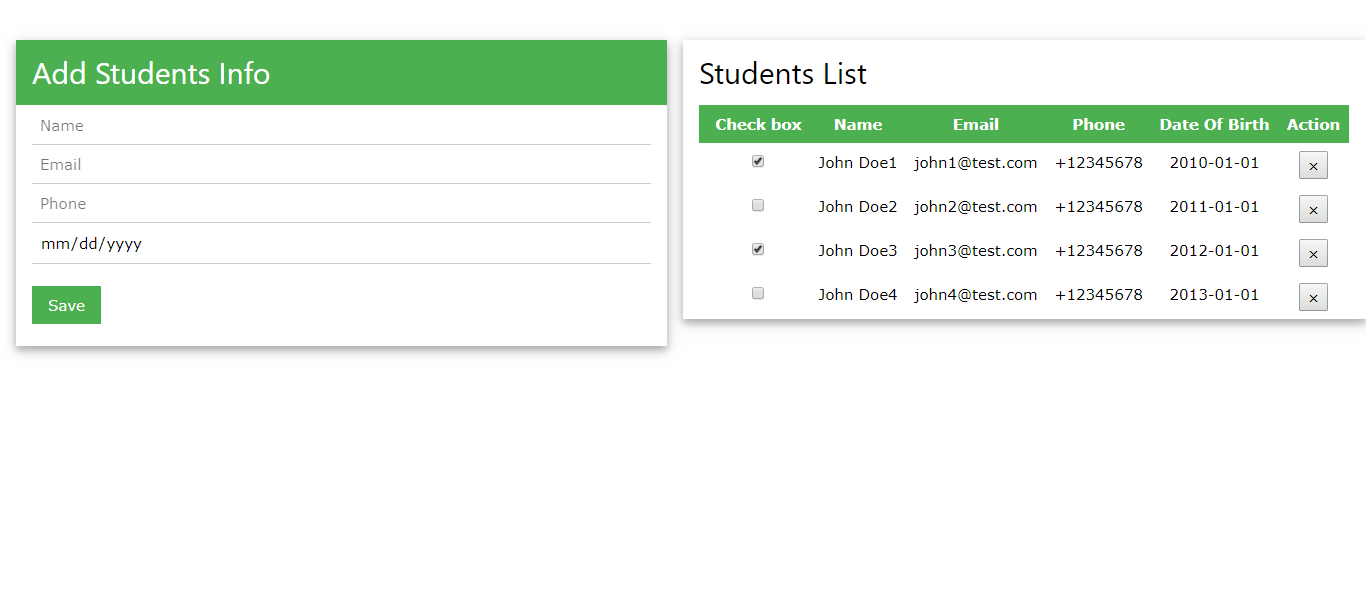
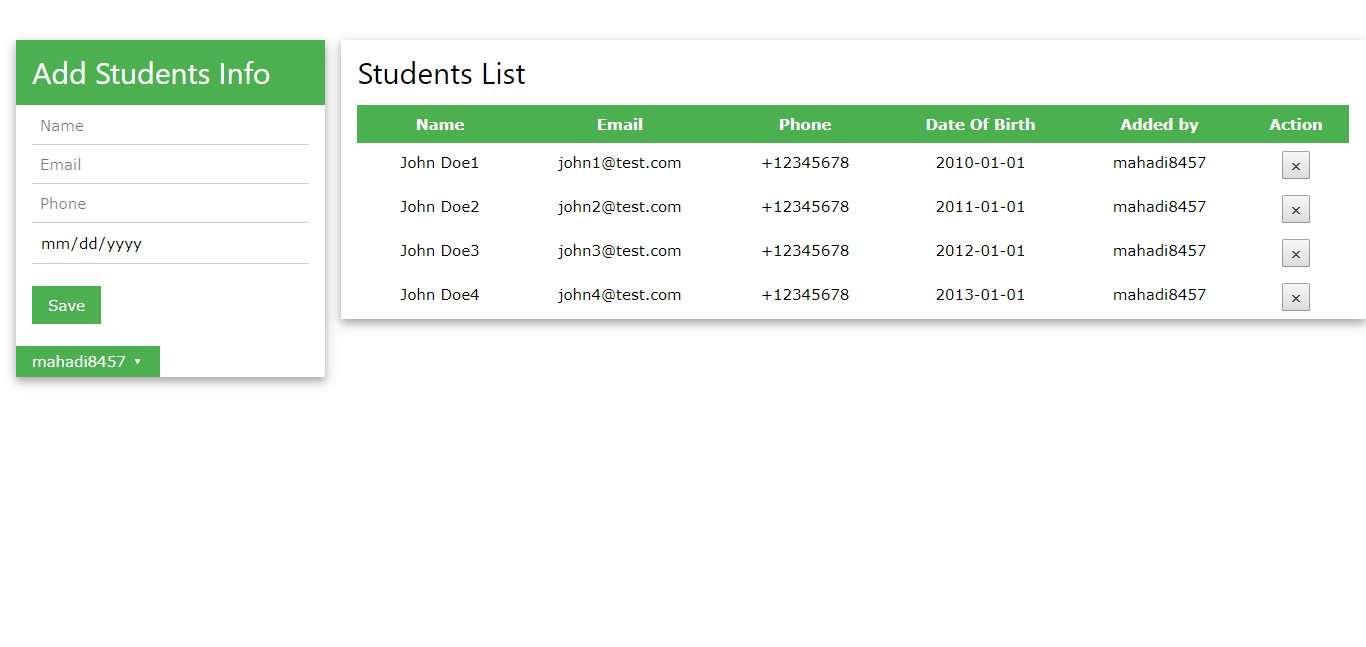
User Accounts implemented and screenshot updated

Changed region(s): [[0.0, 0.0602, 1.0, 0.602], [0.3997, 0.301, 0.5227, 0.3311]]

diff --git a/imports/api/tasks.js b/imports/api/tasks.js
@@ -1,4 +1,43 @@
+import { Meteor } from 'meteor/meteor';
 import { Mongo } from 'meteor/mongo';
-
+import { check } from 'meteor/check';
 // export const Tasks = new Mongo.Collection('tasks');
 export const Lists = new Mongo.Collection('lists');
+
+
+
+Meteor.methods({
+  'lists.insert'(name, email, phone, dob) {
+    check(name, String);
+ 
+    // Make sure the user is logged in before inserting a task
+    if (! Meteor.userId()) {
+      throw new Meteor.Error('not-authorized');
+    }
+ 
+    Lists.insert({
+      name: name,
+      email: email,
+      phone: phone,
+      dob: dob,
+      createdAt: new Date(), // current time
+      owner: Meteor.userId(),
+      username: Meteor.user().username,
+    });
+  },
+  
+  'lists.remove'(lists) {
+    check(lists._id, String);
+ 
+    Lists.remove(lists._id);
+  },
+
+  'lists.setChecked'(taskId, setChecked) {
+    check(taskId, String);
+    check(setChecked, Boolean);
+ 
+    Lists.update(taskId, { $set: { checked: setChecked } });
+  },
+
+});
+

diff --git a/imports/ui/body.js b/imports/ui/body.js
@@ -24,13 +24,18 @@ Template.body.events({
     var dob = event.target.dob.value;
 
     // Insert a task into the collection
-    Lists.insert({
-      name: name,
-      email: email,
-      phone: phone,
-      dob: dob,
-      createdAt: new Date(), // current time
-    });
+    // Lists.insert({
+    //   name: name,
+    //   email: email,
+    //   phone: phone,
+    //   dob: dob,
+    //   createdAt: new Date(), // current time
+    //   owner: Meteor.userId(),
+    //   username: Meteor.user().username,
+    // });
+
+    Meteor.call('lists.insert', name, email, phone, dob);
+
 
     // Clear form
     event.target.name.value = '';
@@ -40,4 +45,18 @@ Template.body.events({
 
     return false;
   },
+});
+
+
+Template.Std.events({
+  'click .delete'() {
+    // Lists.remove(this._id);
+    // check user
+    if(Lists.owner !== Meteor.userId()){
+      throw new Meteor.Error('NOT Authorised')
+    }
+    Meteor.call('lists.remove', this);
+
+  },
+
 });

diff --git a/imports/ui/body.html b/imports/ui/body.html
@@ -1,23 +1,26 @@
 <body>
   <div class="w3-row">
-  <div class="w3-container w3-half">
+  <div class="w3-container w3-quarter">
     <div class="w3-card-4">
       <div class="w3-container w3-green">
         <h2>Add Students Info</h2>
       </div>
+       {{#if currentUser}}
         {{> frm}}
+        {{/if}}
         <br> 
+        {{> loginButtons}}
     </div>
   </div>
-  <div class="w3-container w3-half w3-responsive w3-card-4">
+  <div class="w3-container w3-rest w3-responsive w3-card-4">
     <h2>Students List</h2>
   <table class="w3-table w3-centered w3-hoverable">
     <tr class="w3-green">
-      <th>Check box</th>
       <th>Name</th>
       <th>Email</th>
       <th>Phone</th>
       <th>Date Of Birth</th>
+      <th>Added by</th>
       <th>Action</th>
     </tr>
     {{#each list}}

diff --git a/client/main.css b/client/main.css
@@ -3,3 +3,35 @@ body {
   padding-top: 40px;
   margin: 0 auto;
 }
+
+
+#login-buttons a{
+    border: none;
+    display: inline-block;
+    padding: 8px 16px;
+    vertical-align: middle;
+    overflow: hidden;
+    text-decoration: none;
+    color: inherit;
+    background-color: inherit;
+    text-align: center;
+    cursor: pointer;
+    white-space: nowrap;
+    color: #fff!important;
+    background-color: #4CAF50!important;
+    text-decoration:none;
+
+}
+
+#login-buttons a:hover {
+    box-shadow: 0 8px 16px 0 rgba(0, 0, 0, 0.2), 0 6px 20px 0 rgba(0, 0, 0, 0.19)
+}
+
+#login-buttons a{
+    -webkit-touch-callout: none;
+    -webkit-user-select: none;
+    -khtml-user-select: none;
+    -moz-user-select: none;
+    -ms-user-select: none;
+    user-select: none;
+}

diff --git a/imports/ui/task.js b/imports/ui/task.js
@@ -4,14 +4,3 @@ import { Lists } from '../api/tasks.js'; //importind Mongo DB for Std List
 import './task.html';
 
 
-Template.Std.events({
-  'click .toggle-checked'() {
-    // Set the checked property to the opposite of its current value
-    Lists.update(this._id, {
-      $set: { checked: ! this.checked },
-    });
-  },
-  'click .delete'() {
-    Lists.remove(this._id);
-  },
-});

diff --git a/imports/ui/task.html b/imports/ui/task.html
@@ -1,10 +1,10 @@
 <template name="Std">
-<tr class="{{#if checked}}checked{{/if}}">
-  <td><input type="checkbox" checked="{{checked}}" class="toggle-checked" /></td>
+<tr>
   <td>{{name}}</td>
   <td>{{email}}</td>
   <td>{{phone}}</td>
   <td>{{dob}}</td>
+  <td>{{username}}</td>
   <td><button class="delete">&times;</button></td>
 
 </tr>

diff --git a/imports/startup/accounts-config.js b/imports/startup/accounts-config.js
@@ -1,0 +1,5 @@
+import { Accounts } from 'meteor/accounts-base';
+
+Accounts.ui.config({
+  passwordSignupFields: 'USERNAME_ONLY',
+});

diff --git a/client/main.js b/client/main.js
@@ -1,1 +1,2 @@
+import '../imports/startup/accounts-config.js';
 import '../imports/ui/body.js';
